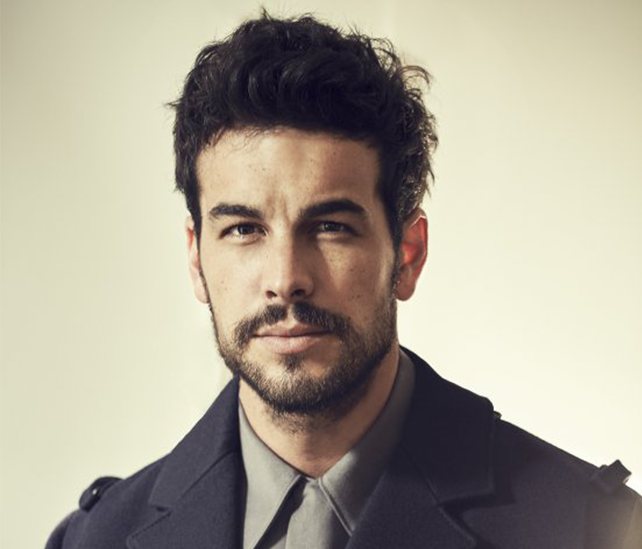
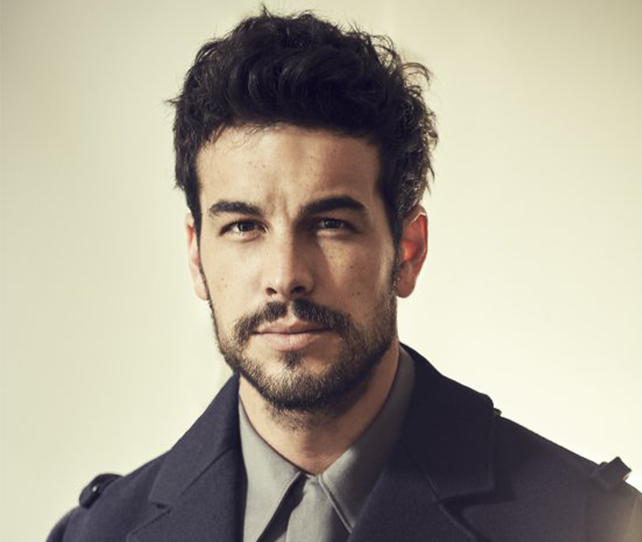
styles for image on right section

diff --git a/index.html b/index.html
@@ -49,8 +49,8 @@
 </header>
 <!-- Header content end here -->
 <!-- Main content starts here -->
-<section class="talent flex spaceBetween">
-    <div class="talentLeft greenBg flex colorDark">
+<section class="talent flex">
+    <div class="talentLeft greenBg colorDark flex">
         <div class="socialIcons txtMd flex spaceBetween flexColoumn">
             <ul>
                 <li><a href="#"><i class="fab fa-facebook"></i></a></li>
@@ -61,15 +61,16 @@
             <div class="vLine colorDark"></div>
             <span class="medium poppins index">01</span>
         </div>
-        <div class="whiteBg talentInfo">
-            <div class="flex flexColoumn">
-                <h1>Our talent</h1>
-                <div class="flex spaceBetween alignItemCenter">
-                    <span class="uppercase semiBold letterspacingMd">Leading industry names.</span>
-                    <div class="hLine inlineBlock"></div>
-                </div>
-                <div>
-                <a href="#" class="btnMd darkGreenBg borderRadius extraBold uppercase colorWhite letterspacingMd transitionBg">About us</a>
+            <div class="whiteBg talentInfo">
+                <div class="flex flexColoumn">
+                    <h1>Our talent</h1>
+                    <div class="flex spaceBetween alignItemCenter">
+                        <span class="uppercase semiBold letterspacingMd">Leading industry names.</span>
+                        <div class="hLine inlineBlock"></div>
+                    </div>
+                    <div>
+                        <a href="#" class="btnMd darkGreenBg borderRadius extraBold uppercase colorWhite letterspacingMd transitionBg">About us</a>
+                    </div>
                 </div>
             </div>
         </div>
@@ -78,11 +79,10 @@
         <div class="image">
             <a href="#"><img src="img/user.png"></a>
         </div>
-        <div>
-            <span>Young model 2020</span>
-            <h4>John Doe</h4>
-        </div>
-    </div>
+        <!--<div>-->
+            <!--<span>Young model 2020</span>-->
+            <!--<h4>John Doe</h4>-->
+        <!--</div>-->
     </div>
 </section>
 <!-- Main content ends here -->

diff --git a/css/main.css b/css/main.css
@@ -342,7 +342,7 @@ nav li a:hover, .nav i:hover, .socialIcons ul li a:hover {
 .talentInfo {
     width: 79%;
     padding-left: 145px;
-    padding-top: 135px;
+    padding-top: 130px;
 }
 
 .socialIcons ul li {
@@ -355,7 +355,7 @@ nav li a:hover, .nav i:hover, .socialIcons ul li a:hover {
 
 .vLine {
     border-left: 3px solid;
-    height: 15%;
+    min-height: 60px;
 }
 
 .index {
@@ -368,6 +368,10 @@ nav li a:hover, .nav i:hover, .socialIcons ul li a:hover {
 }
 
 .talentRight .image {
+    max-height: 542px;
+}
+
+.talentRight img {
     width: 100%;
 }
 
@@ -386,11 +390,12 @@ nav li a:hover, .nav i:hover, .socialIcons ul li a:hover {
 
 .talentInfo a {
     margin-top: 50px;
-    margin-bottom: 163px;
+    margin-bottom: 145px;
 }
 
 .talentInfo a:hover {
     background-color: #1a1a1d;
 }
+
 
 /* Talent section styles end here */
